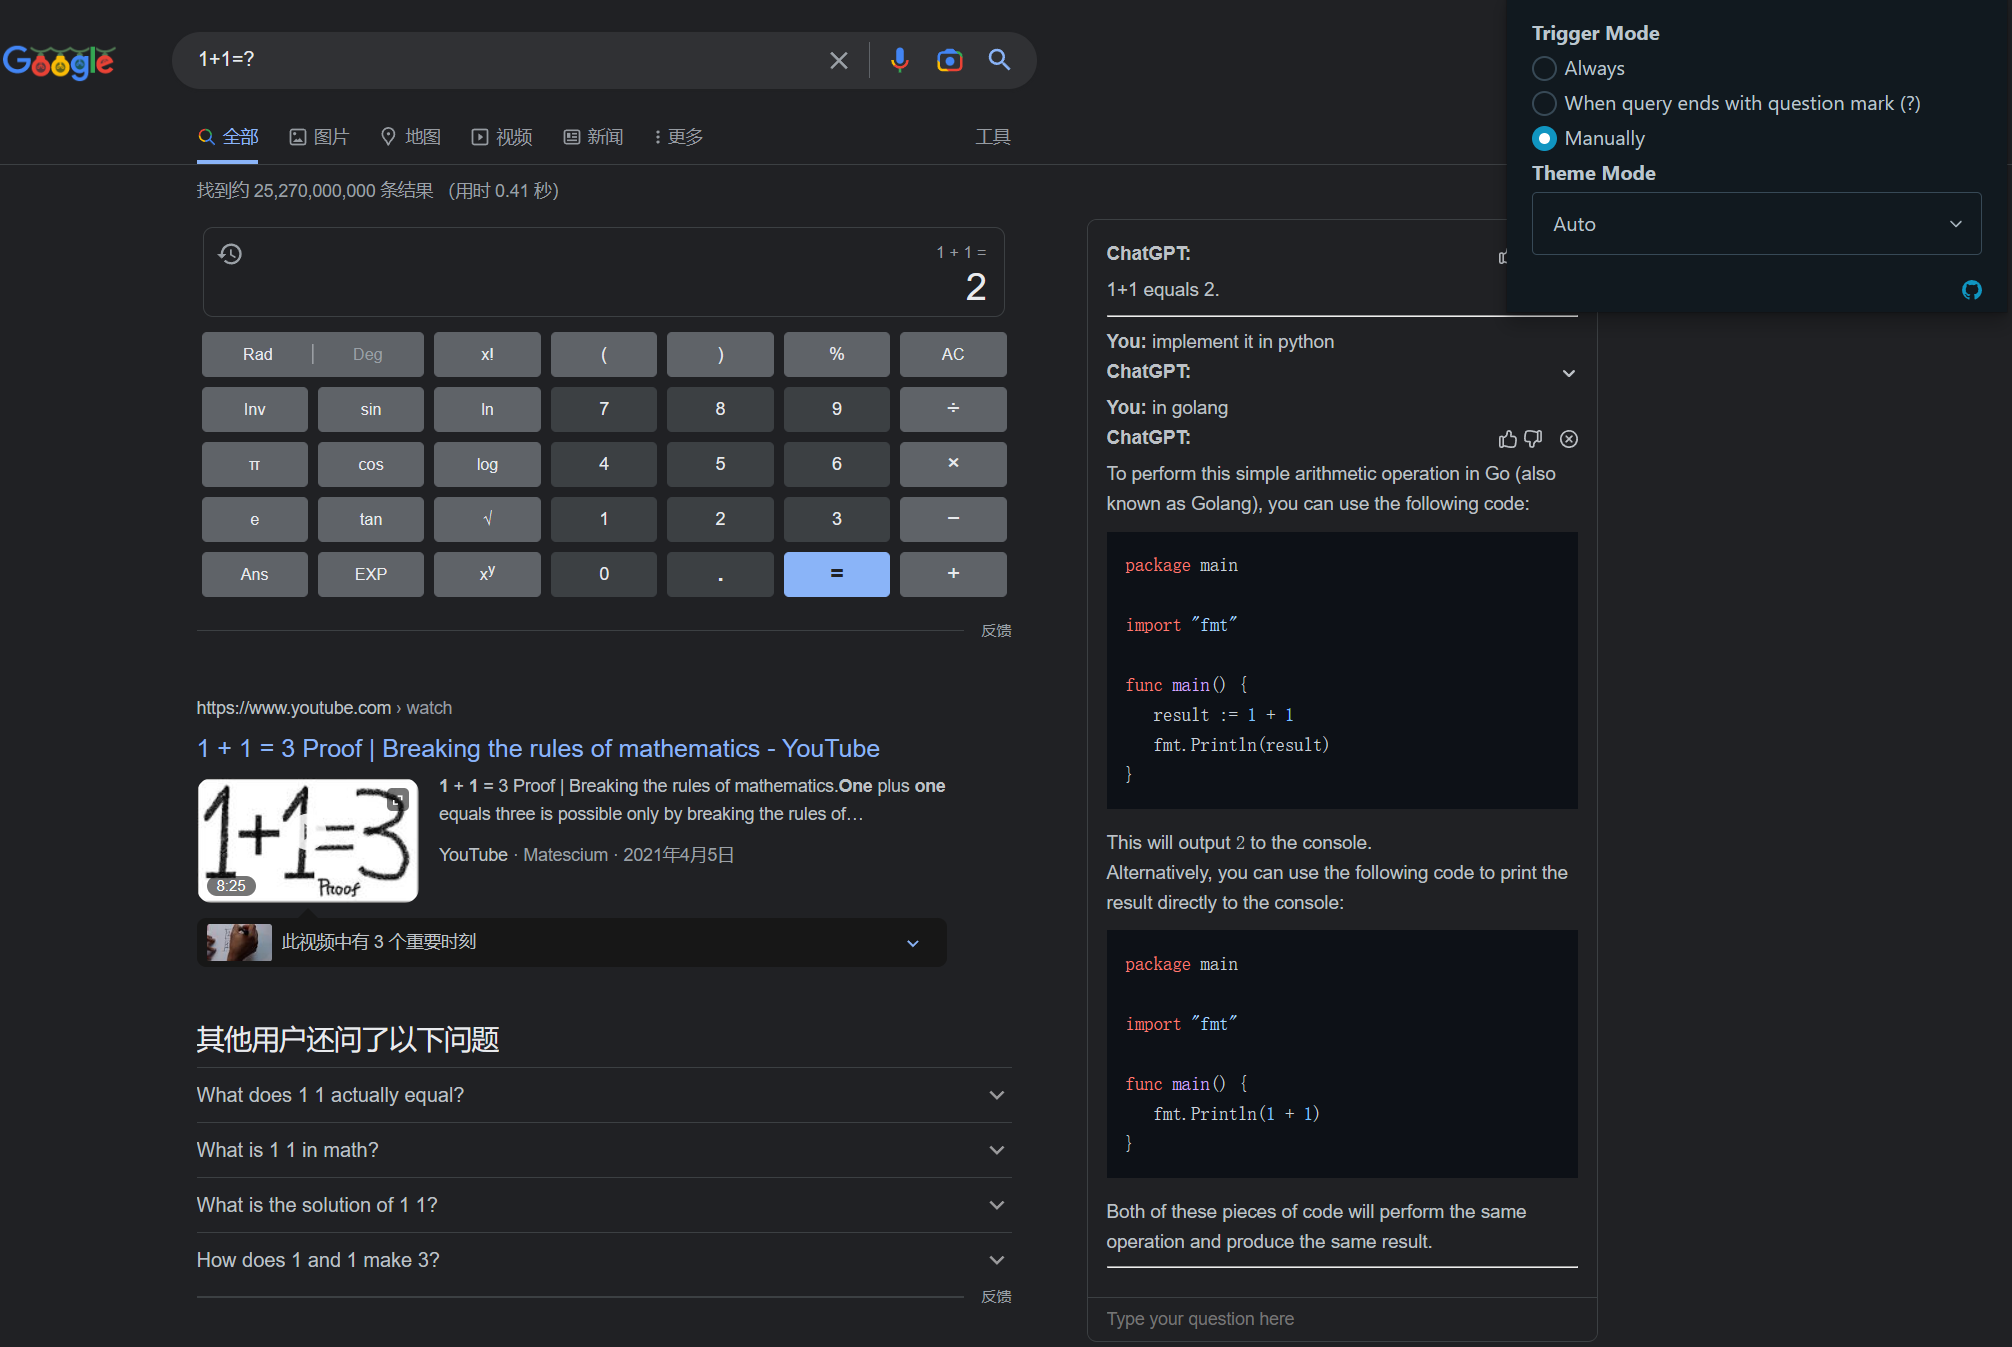
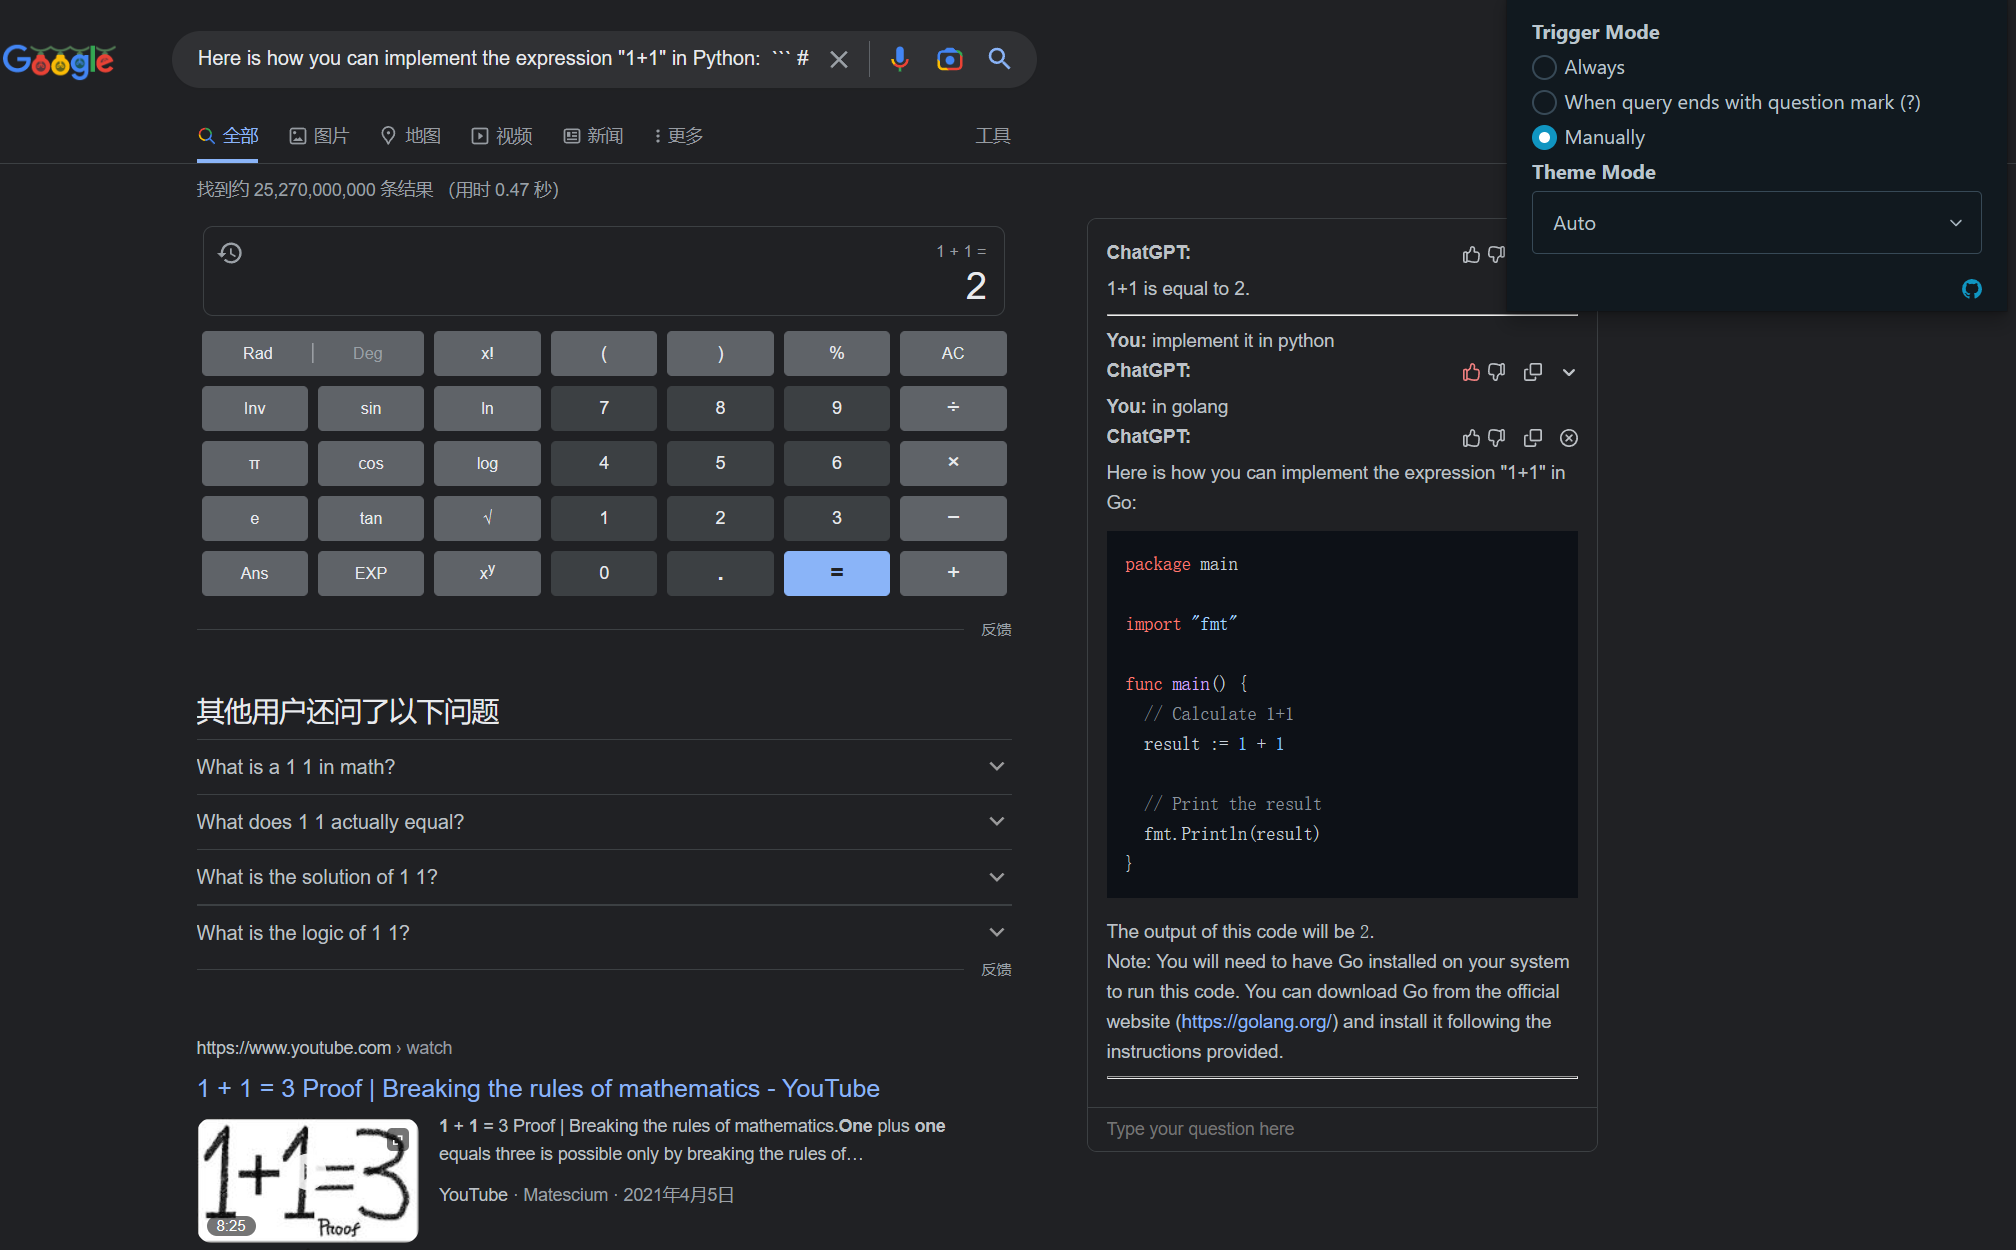
update README.md

diff --git a/README.md b/README.md
@@ -22,9 +22,10 @@ and [Pre-release build](https://github.com/josStorer/chatGPT-search-engine-exten
 - Fix answer being overwritten due to "network error"
 - Theme switcher: [#9](https://github.com/josStorer/chatGPT-search-engine-extension/pull/9)
 - Collapse answers
+- Copy answers
+- Popup Setting Window (Upstream has switched to a standalone options page)
 - Switch to webpack
 - Javascript
-- Popup Setting Window (Upstream has switched to a standalone options page)
 
 ### Preview:
 
@@ -70,6 +71,7 @@ and [Pre-release build](https://github.com/josStorer/chatGPT-search-engine-exten
     - Generate separate sessions for each page
     - Code highlight
     - Collapse answers
+    - Copy answers
     - Switch to webpack
 
 ## Credit
